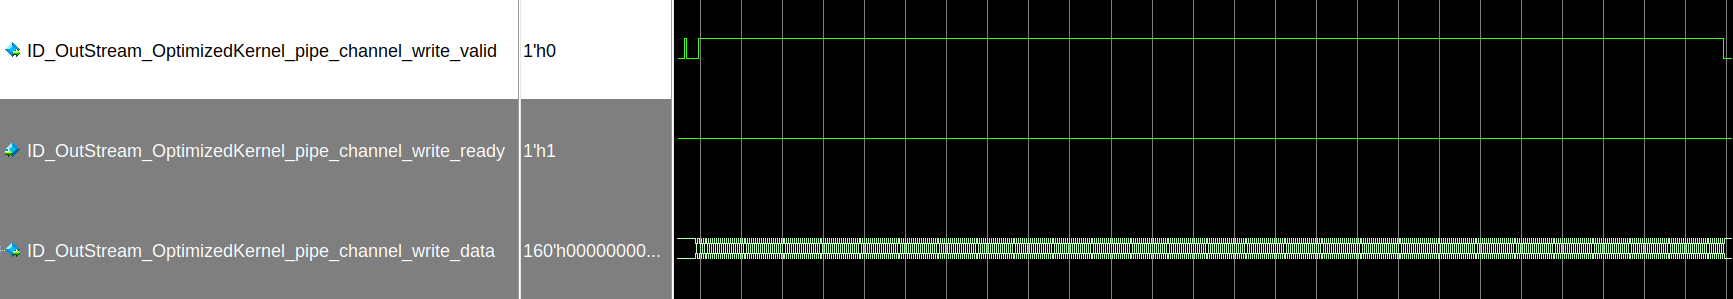
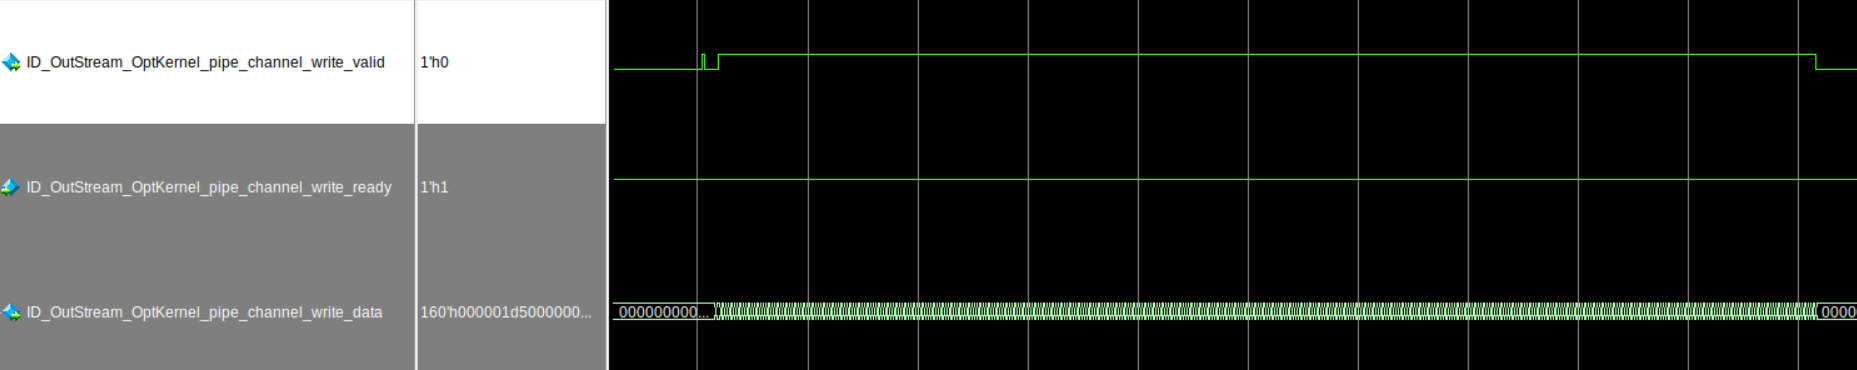
Fix for Windows regtest.

Changed region(s): [[0.0, 0.0, 1.0, 1.0]]

diff --git a/DirectProgramming/C++SYCL_FPGA/Tutorials/DesignPatterns/banked_memory_system/src/memory_system_defines.hpp b/DirectProgramming/C++SYCL_FPGA/Tutorials/DesignPatterns/banked_memory_system/src/memory_system_defines.hpp
@@ -39,11 +39,11 @@ using OutStream_NaiveKernel =
     sycl::ext::intel::experimental::pipe<ID_OutStream_NaiveKernel, SimpleOutputT, 0,
                                          PipePropertiesT>;
 
-class ID_InStream_OptimizedKernel;
-using InStream_OptimizedKernel =
-    sycl::ext::intel::experimental::pipe<ID_InStream_OptimizedKernel, SimpleInputT, 0,
+class ID_InStream_OptKernel;
+using InStream_OptKernel =
+    sycl::ext::intel::experimental::pipe<ID_InStream_OptKernel, SimpleInputT, 0,
                                          PipePropertiesT>;
-class ID_OutStream_OptimizedKernel;
-using OutStream_OptimizedKernel =
-    sycl::ext::intel::experimental::pipe<ID_OutStream_OptimizedKernel, SimpleOutputT, 0,
+class ID_OutStream_OptKernel;
+using OutStream_OptKernel =
+    sycl::ext::intel::experimental::pipe<ID_OutStream_OptKernel, SimpleOutputT, 0,
                                          PipePropertiesT>;

diff --git a/DirectProgramming/C++SYCL_FPGA/Tutorials/DesignPatterns/banked_memory_system/src/main.cpp b/DirectProgramming/C++SYCL_FPGA/Tutorials/DesignPatterns/banked_memory_system/src/main.cpp
@@ -15,7 +15,7 @@ bool CheckOutput(sycl::queue &q) {
   bool passed = true;
   for (int i = 0; i < 500; ++i) {
     resultNaive = OutStream_NaiveKernel::read(q);
-    resultOptimized = OutStream_OptimizedKernel::read(q);
+    resultOptimized = OutStream_OptKernel::read(q);
     if (resultNaive[4] != i || resultOptimized[4] != i) {
       passed = false;
     }
@@ -39,7 +39,7 @@ int main() {
     q.single_task<class Input>([=]() {
       for (int i = 0; i < 500; ++i) {
         InStream_NaiveKernel::write(i);
-        InStream_OptimizedKernel::write(i);
+        InStream_OptKernel::write(i);
       }
     });
 

diff --git a/DirectProgramming/C++SYCL_FPGA/Tutorials/DesignPatterns/banked_memory_system/src/memory_system_kernels.hpp b/DirectProgramming/C++SYCL_FPGA/Tutorials/DesignPatterns/banked_memory_system/src/memory_system_kernels.hpp
@@ -38,7 +38,7 @@ struct OptimizedKernel {
 
     [[intel::initiation_interval(1)]]
     for (int row = 0; row < kNumRowsOptimized; ++row) {
-      SimpleInputT input = InStream_OptimizedKernel::read();
+      SimpleInputT input = InStream_OptKernel::read();
       SimpleOutputT output;
 
       #pragma unroll
@@ -52,7 +52,7 @@ struct OptimizedKernel {
         output[idx] = array2d[row][idx];
       }
       
-      OutStream_OptimizedKernel::write(output);
+      OutStream_OptKernel::write(output);
     }
   }
 };

diff --git a/DirectProgramming/C++SYCL_FPGA/Tutorials/DesignPatterns/banked_memory_system/README.md b/DirectProgramming/C++SYCL_FPGA/Tutorials/DesignPatterns/banked_memory_system/README.md
@@ -166,7 +166,7 @@ Review the memory access pattern above, we can easily find out that within each 
 
 ![Never-stall Node](./assets/memory_report_optimized.png)
 
-Subsequently, since we have made the LSU non-stallable, we expect no stalls in the loop nor in the downstream task - that the output pipe `OutStream_OptimizedKernel` is not stalled. To verify this improvement, refer to the simulation waveform and observe the `valid` and `data` signal of the output pipe `ID_OutStream_OptimizedKernel_pipe_channel_write`. The gaps no longer appear in the `valid` signal, and the pipe writes out data every clock cycle.
+Subsequently, since we have made the LSU non-stallable, we expect no stalls in the loop nor in the downstream task - that the output pipe `OutStream_OptKernel` is not stalled. To verify this improvement, refer to the simulation waveform and observe the `valid` and `data` signal of the output pipe `ID_OutStream_OptKernel_pipe_channel_write`. The gaps no longer appear in the `valid` signal, and the pipe writes out data every clock cycle.
 
 ![Optimized System Waveform](./assets/waveform_optimized.png)
 
@@ -252,21 +252,21 @@ This design uses CMake to generate a build script for  `nmake`.
 ### On Linux
 1. Run the sample on the FPGA emulator (the kernel executes on the CPU).
    ```
-   ./banked_memory_system.fpga_emu
+   ./banked_mem.fpga_emu
    ```
 2. Run the sample on the FPGA simulator device.
    ```
-   CL_CONTEXT_MPSIM_DEVICE_INTELFPGA=1 ./banked_memory_system.fpga_sim
+   CL_CONTEXT_MPSIM_DEVICE_INTELFPGA=1 ./banked_mem.fpga_sim
    ```
 ### On Windows
 1. Run the sample on the FPGA emulator (the kernel executes on the CPU).
    ```
-   banked_memory_system.fpga_emu.exe
+   banked_mem.fpga_emu.exe
    ```
 2. Run the sample on the FPGA simulator device.
    ```
    set CL_CONTEXT_MPSIM_DEVICE_INTELFPGA=1
-   banked_memory_system.fpga_sim.exe
+   banked_mem.fpga_sim.exe
    set CL_CONTEXT_MPSIM_DEVICE_INTELFPGA=
    ```
 
